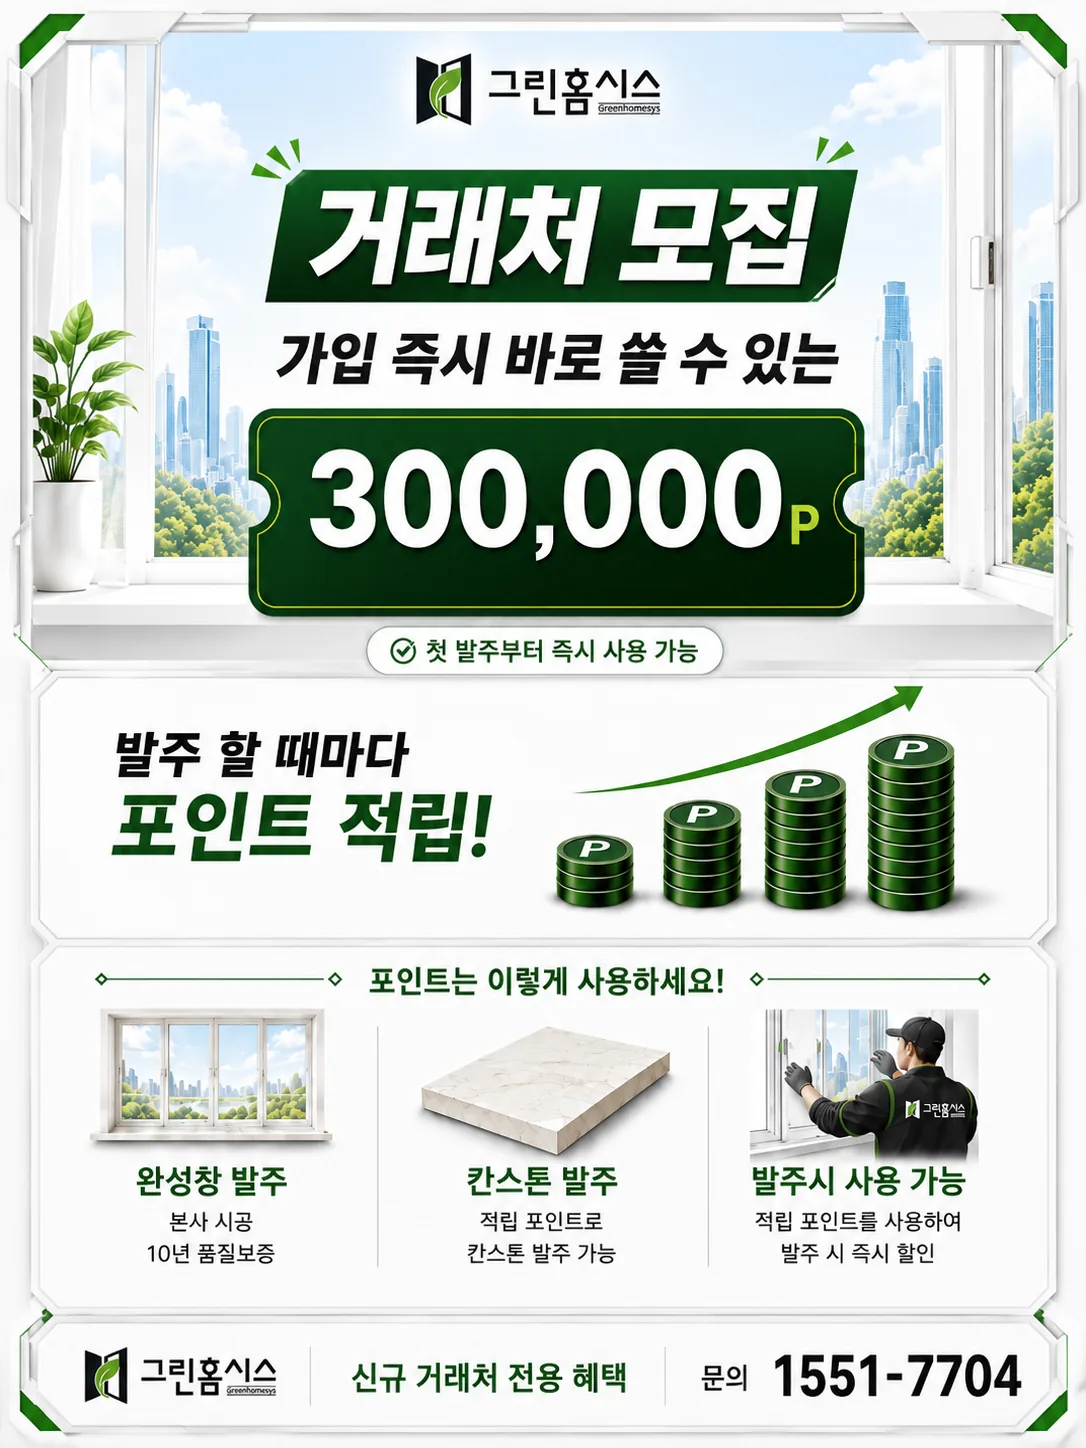
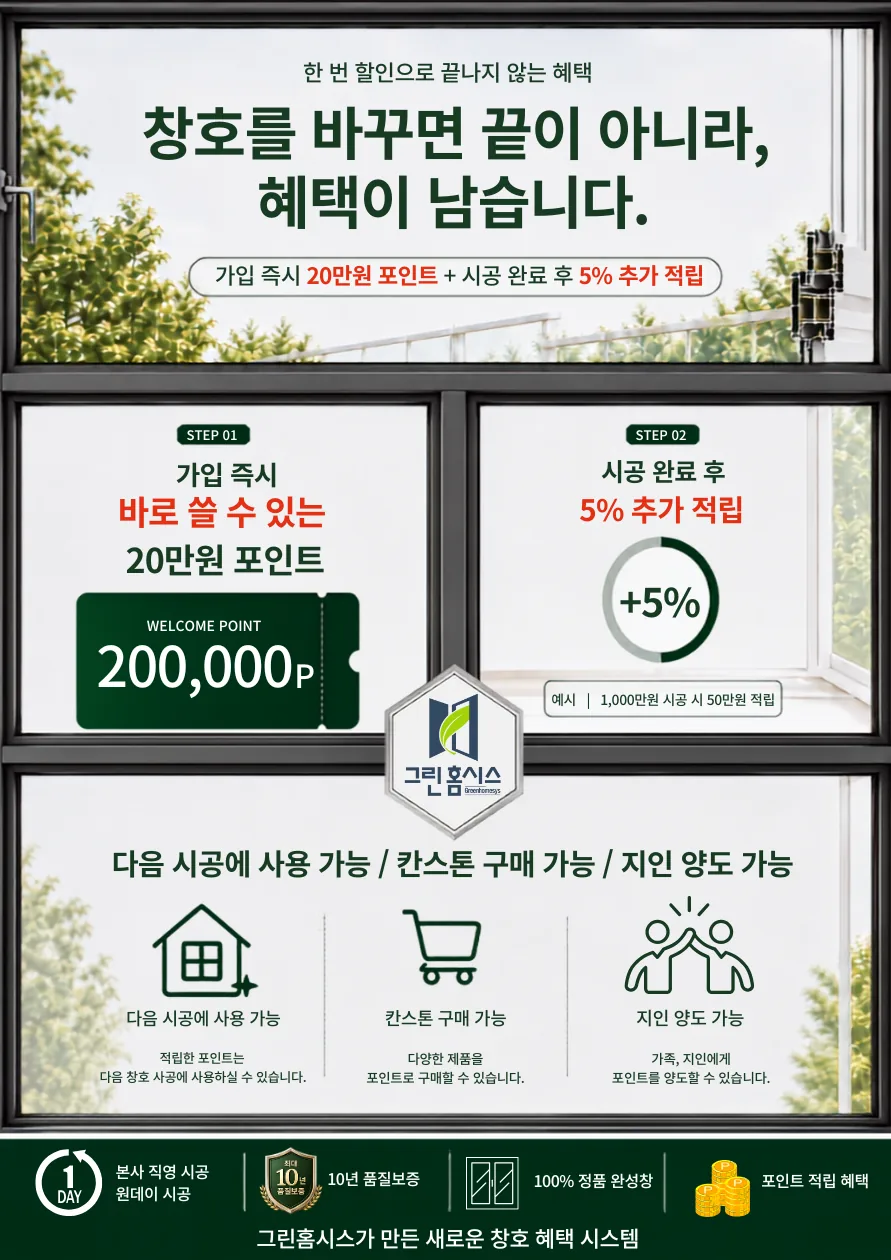
프로모션 섹션 상시 혜택을 개인 고객 프로모션으로 교체 (#62)
- 포스터를 개인 고객 20만 포인트 프로모션으로 변경 (WebP 96KB)
- 카드 제목: 거래처 모집 300,000P → 개인 고객 200,000P
- 새 포스터 비율에 맞춰 두 포스터 높이가 같도록 그리드 열 폭 조정

Claude-Session: https://claude.ai/code/session_01WdVrgu9SkNjSTGSbyDB1Ru

diff --git a/index.html b/index.html
@@ -265,7 +265,7 @@
   /* ───────── promo ───────── */
   .promo { background: var(--bg-alt); }
   /* 두 포스터 비율에 맞춰 컬럼 폭 배분 → 이미지 높이 동일 */
-  .promo-grid { display: grid; grid-template-columns: 1fr .952fr; gap: 20px; align-items: stretch; }
+  .promo-grid { display: grid; grid-template-columns: 1fr 1.01fr; gap: 20px; align-items: stretch; }
   .promo-card {
     background: #fff; border-radius: var(--radius);
     overflow: hidden; border: 1px solid var(--green-line);
@@ -584,9 +584,9 @@
       <div class="promo-card">
         <div class="head">
           <span class="badge badge-always">상시 혜택</span>
-          <h3>거래처 모집 — 가입 즉시 300,000P 지급</h3>
+          <h3>개인 고객 — 가입 즉시 200,000P 지급</h3>
         </div>
-        <img src="assets/promo-always.webp" alt="거래처 모집 — 가입 즉시 바로 쓸 수 있는 300,000포인트, 발주할 때마다 포인트 적립" loading="lazy" data-full="assets/promo-always.webp" width="1086" height="1448" decoding="async">
+        <img src="assets/promo-always.webp" alt="개인 고객 혜택 — 가입 즉시 바로 쓸 수 있는 200,000포인트, 시공 완료 후 5% 추가 적립" loading="lazy" data-full="assets/promo-always.webp" width="891" height="1260" decoding="async">
       </div>
       <div class="promo-card">
         <div class="head">
